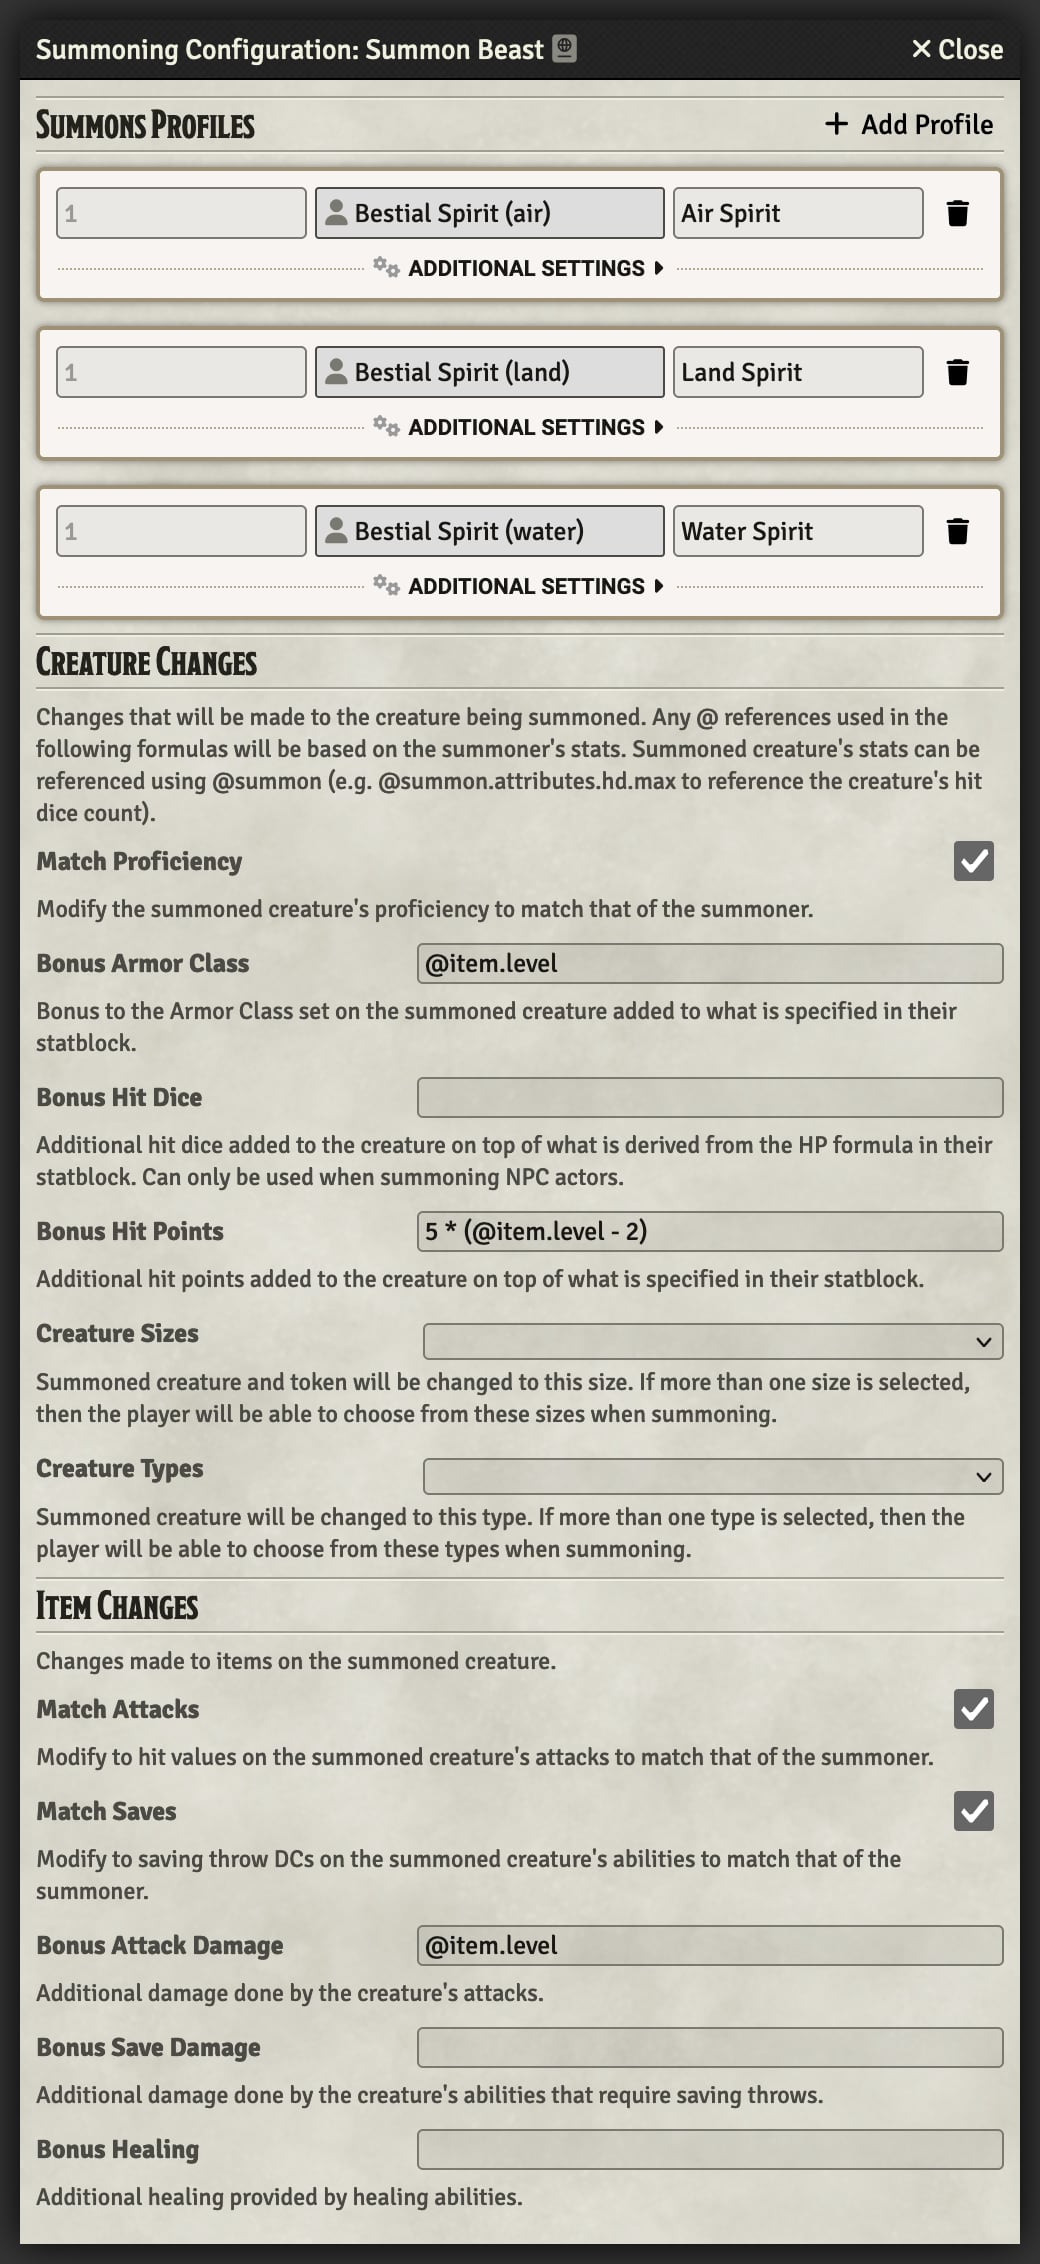
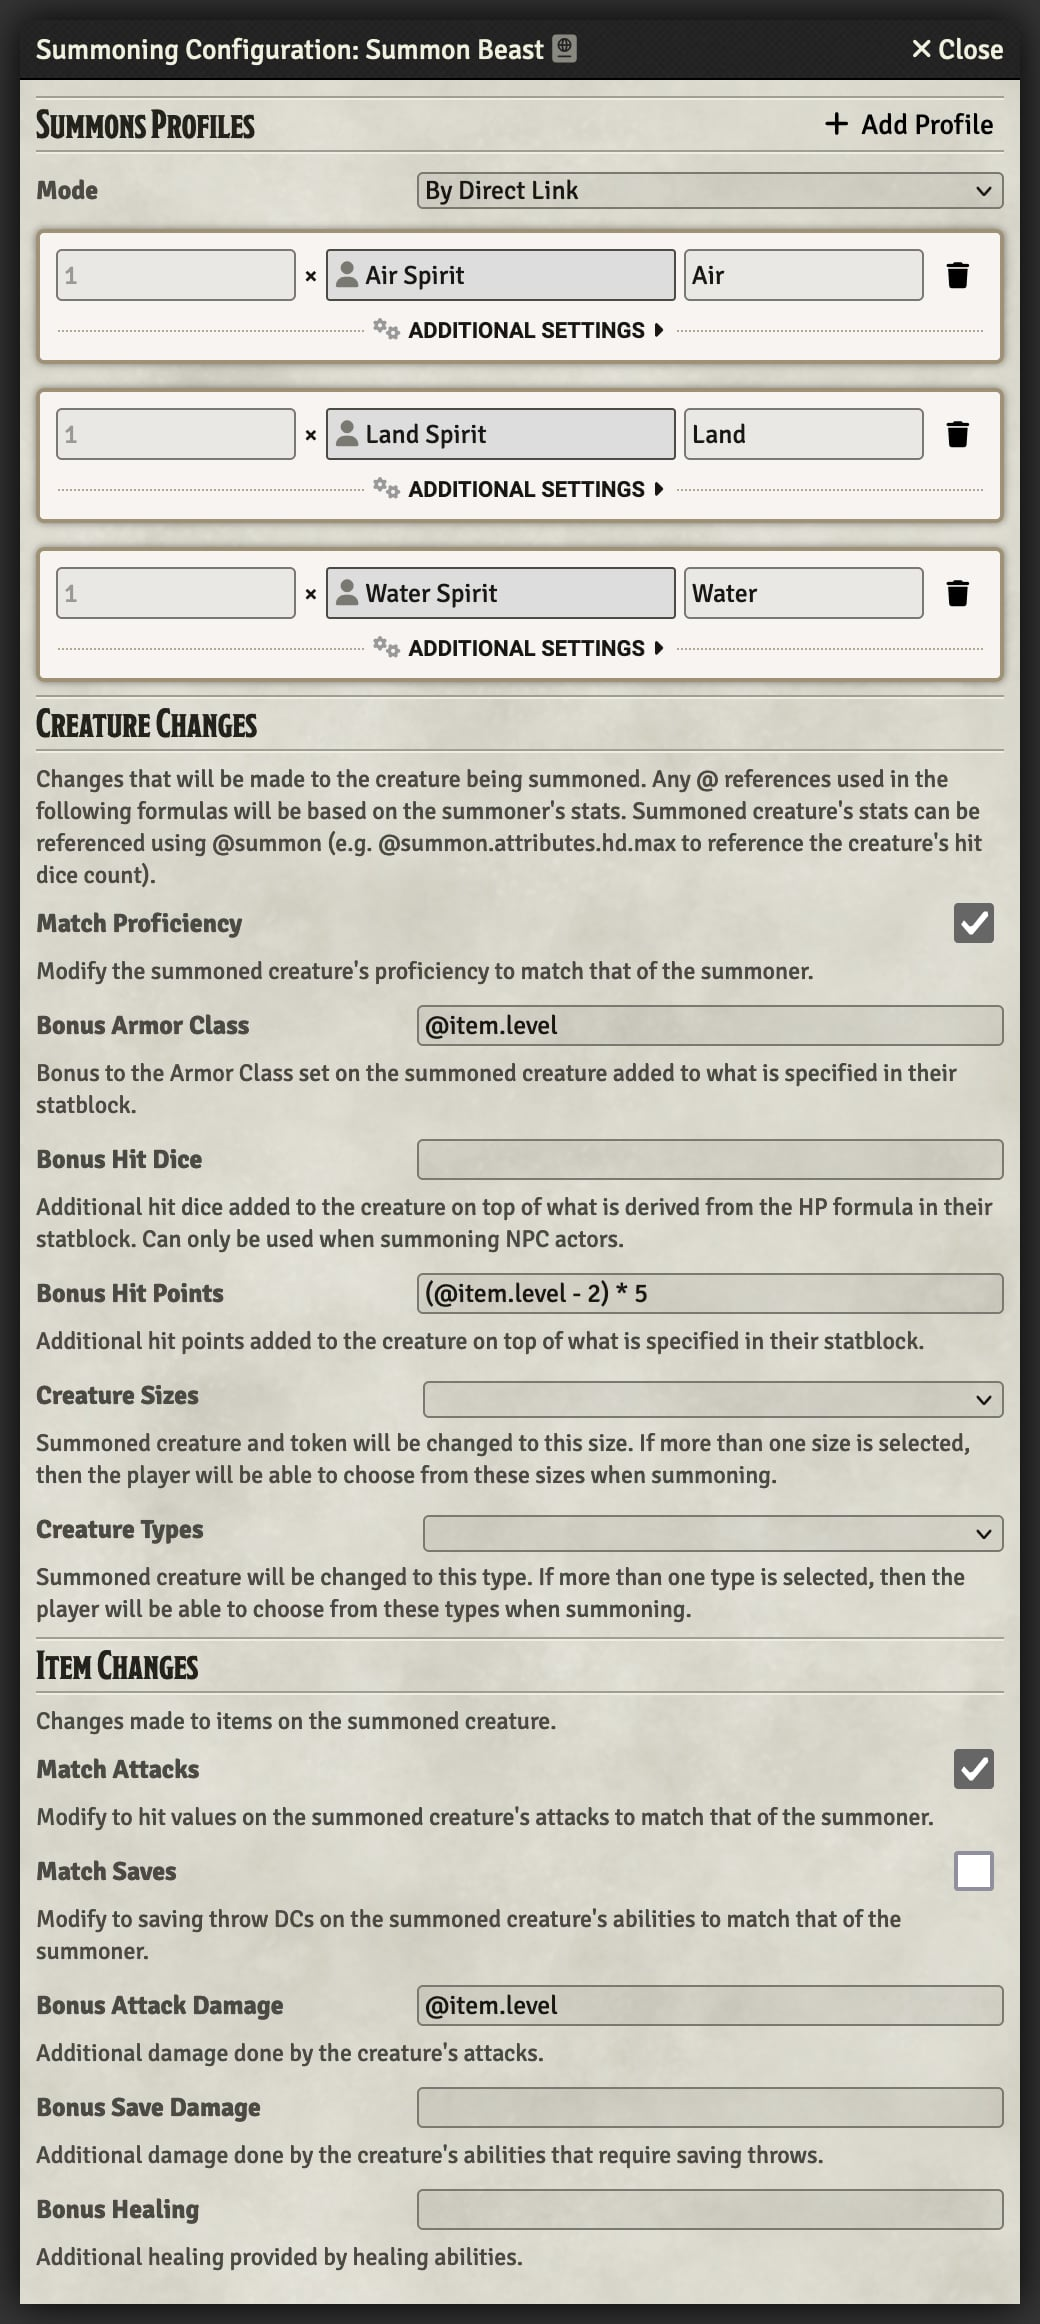
Update summoning page with details on CR-based summoning

diff --git a/wiki/Summoning.md b/wiki/Summoning.md
@@ -1,4 +1,4 @@
-![Up to date as of 3.2.0](https://img.shields.io/static/v1?label=dnd5e&message=3.2.0&color=informational)
+![Up to date as of 3.3.0](https://img.shields.io/static/v1?label=dnd5e&message=3.2.0&color=informational)
 
 The D&D system includes a system for automatically bringing summoned creatures into your world. This allows you to reference a list of creatures to be summoned from a feature or spell, modify the actors before they are brought into the world, and place them where you wish in the scene.
 
@@ -28,9 +28,19 @@ Clicking the "Configure Summons" button will open the summoning configuration sc
 
 ### Summoning Profiles
 
-The top section that reads "Summoning Profiles" is where the actors that will be summoned are set up. It is easy to add actors here by dragging and dropping them from the world or a compendium into the app. By default the name displayed to users will match the actor name, but that can be changed by entering a custom label in the box to the right of the link. Any extra entries can be deleted using the delete button.
+The top section that reads "Summoning Profiles" is where the actors that will be summoned are set up. There are two different modes that can be configured:
+- **By Direct Link**: Each profile links to a specific actor that will be summoned
+- **By Challenge Rating & Type**: Each profile specifies a maximum challenge rating and optional creature types
+
+In *Direct Link* mode it is easy to add actors here by dragging and dropping them from the world or a compendium into the app. By default the name displayed to users will match the actor name, but that can be changed by entering a custom label in the box to the right of the link. Any extra entries can be deleted using the delete button.
 
 In the example above, the spell "Summon Beast" from *Tasha's Cauldron of Everything*, there are three profiles created to match with the three variants of Bestial Spirit that can be created: Air, Land, and Water. Custom labels have been added to make the usage window more legible to players.
+
+![Summoning by Challenge Rating & Type](https://raw.githubusercontent.com/foundryvtt/dnd5e/publish-wiki/wiki/images/summoning/summoning-cr-configuration.jpg)
+
+In *Challenge Rating & Type* mode the actor drop area is replaced with a formula for the maximum CR that can be summoned for that profile. The above example of "Conjure Animals" in the SRD specifies four profiles with descending CRs and increasing quantities (with a complex formula to handle the spell's doubling at certain levels).
+
+In the other example of "Conjure Elemental" in the SRD, only a single profile is specified but its CR scales based on the level at which the spell is cast. Within the "Additional Settings" dropdown is a "Creature Types" input for restricting the selection to certain types, in this case "Elemental".
 
 ![Summoning Quantity & Level](https://raw.githubusercontent.com/foundryvtt/dnd5e/publish-wiki/wiki/images/summoning/summoning-quantity-level.jpg)
 
@@ -57,6 +67,13 @@ Once configuration is complete, summoning is very easy. Simply activate the feat
 ![Summoning Prompt](https://raw.githubusercontent.com/foundryvtt/dnd5e/publish-wiki/wiki/images/summoning/summoning-prompt.jpg)
 
 The "Place Summons" checkbox controls whether a summoned creature will be placed automatically and if there is more than one summoning profile the dropdown will allow player to select what type to summon. After this screen the player's sheet will be minimized and they will be able to place the summon in the current scene.
+
+![Summoning Prompt for CR Mode](https://raw.githubusercontent.com/foundryvtt/dnd5e/publish-wiki/wiki/images/summoning/summoning-cr-prompt.jpg)
+
+When summoning in *Challenge Rating & Type* mode, the compendium browser will be brought up after the profile is selected allowing the player to choose which specific creature they wish to summon.
+
+> [!IMPORTANT]
+> Summoning based on challenge rating can only be used when running Foundry V12 or later due to its reliance on the compendium browser. This type of summoning can still be configured in Foundry V11, but no actor will actually be summoned.
 
 ![Summoning Chat Message](https://raw.githubusercontent.com/foundryvtt/dnd5e/publish-wiki/wiki/images/summoning/summoning-chat-message.jpg)
 
